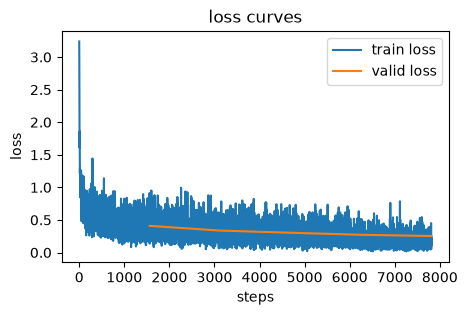
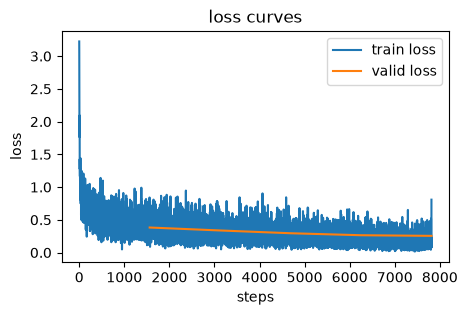
updated index.ipynvb

diff --git a/README.md b/README.md
@@ -21,12 +21,14 @@ Import using
 
 ``` python
 import lucidlearn.core as ll
+import lucidlearn.nn as nn
 ```
 
 or
 
 ```python
 from lucidlearn.core import *
+from lucidlearn.nn import *
 ```
 
 For coding examples see the [docs](https://frenio.github.io/lucidlearn/).
